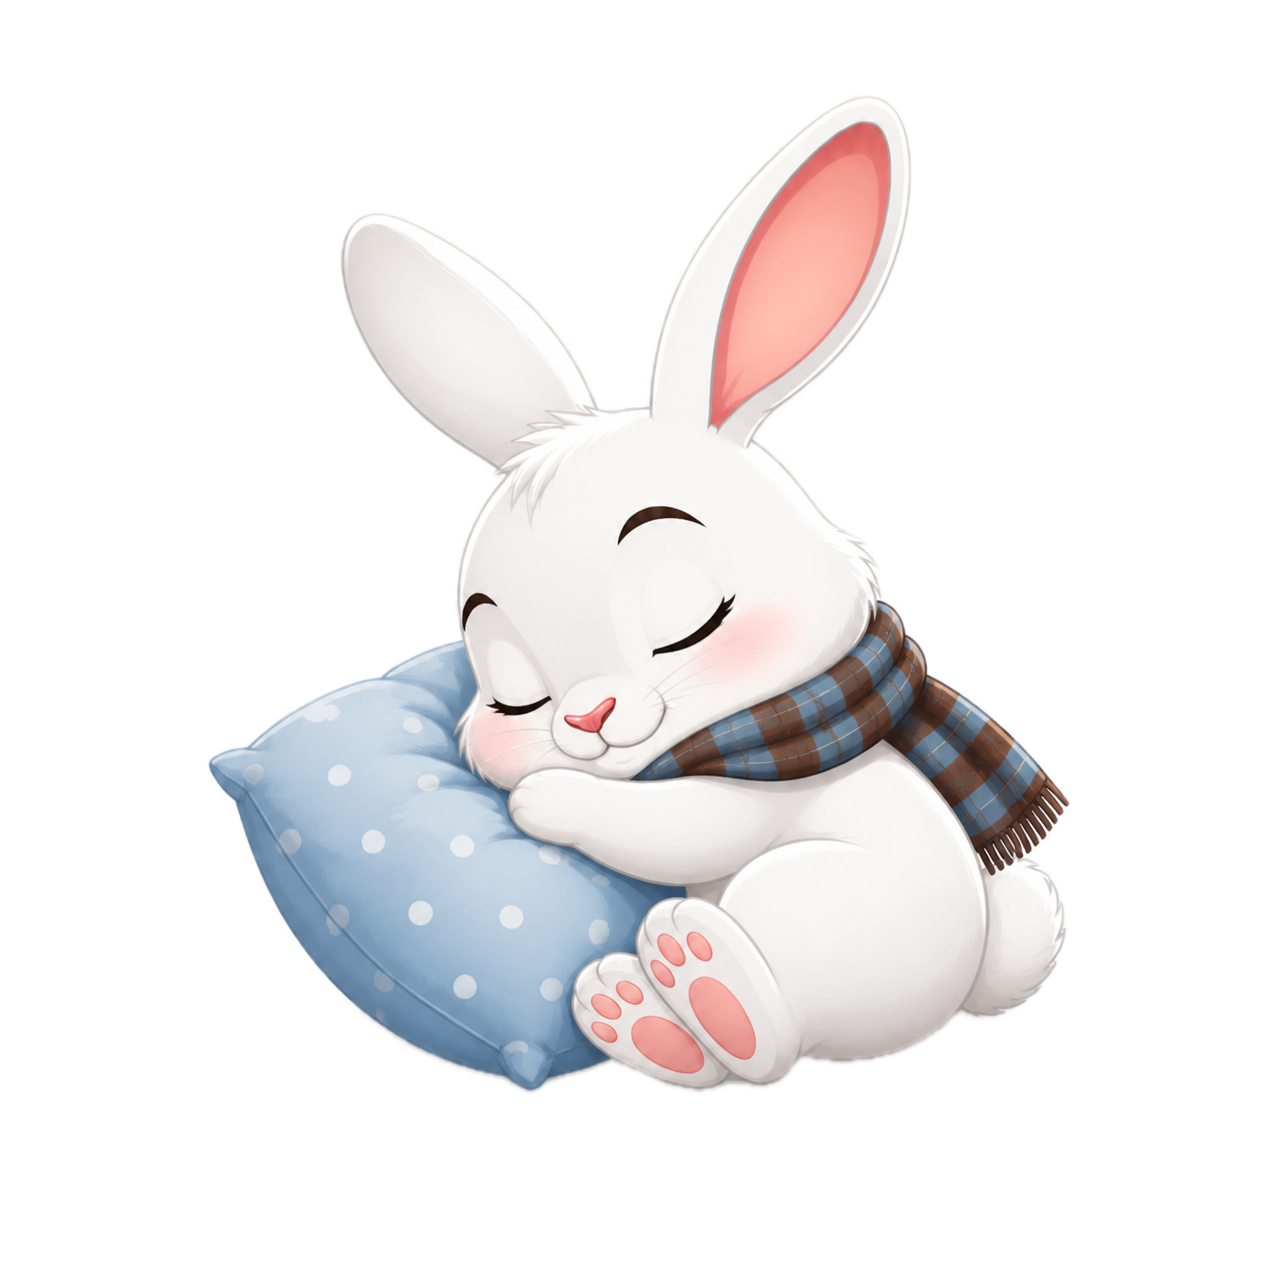
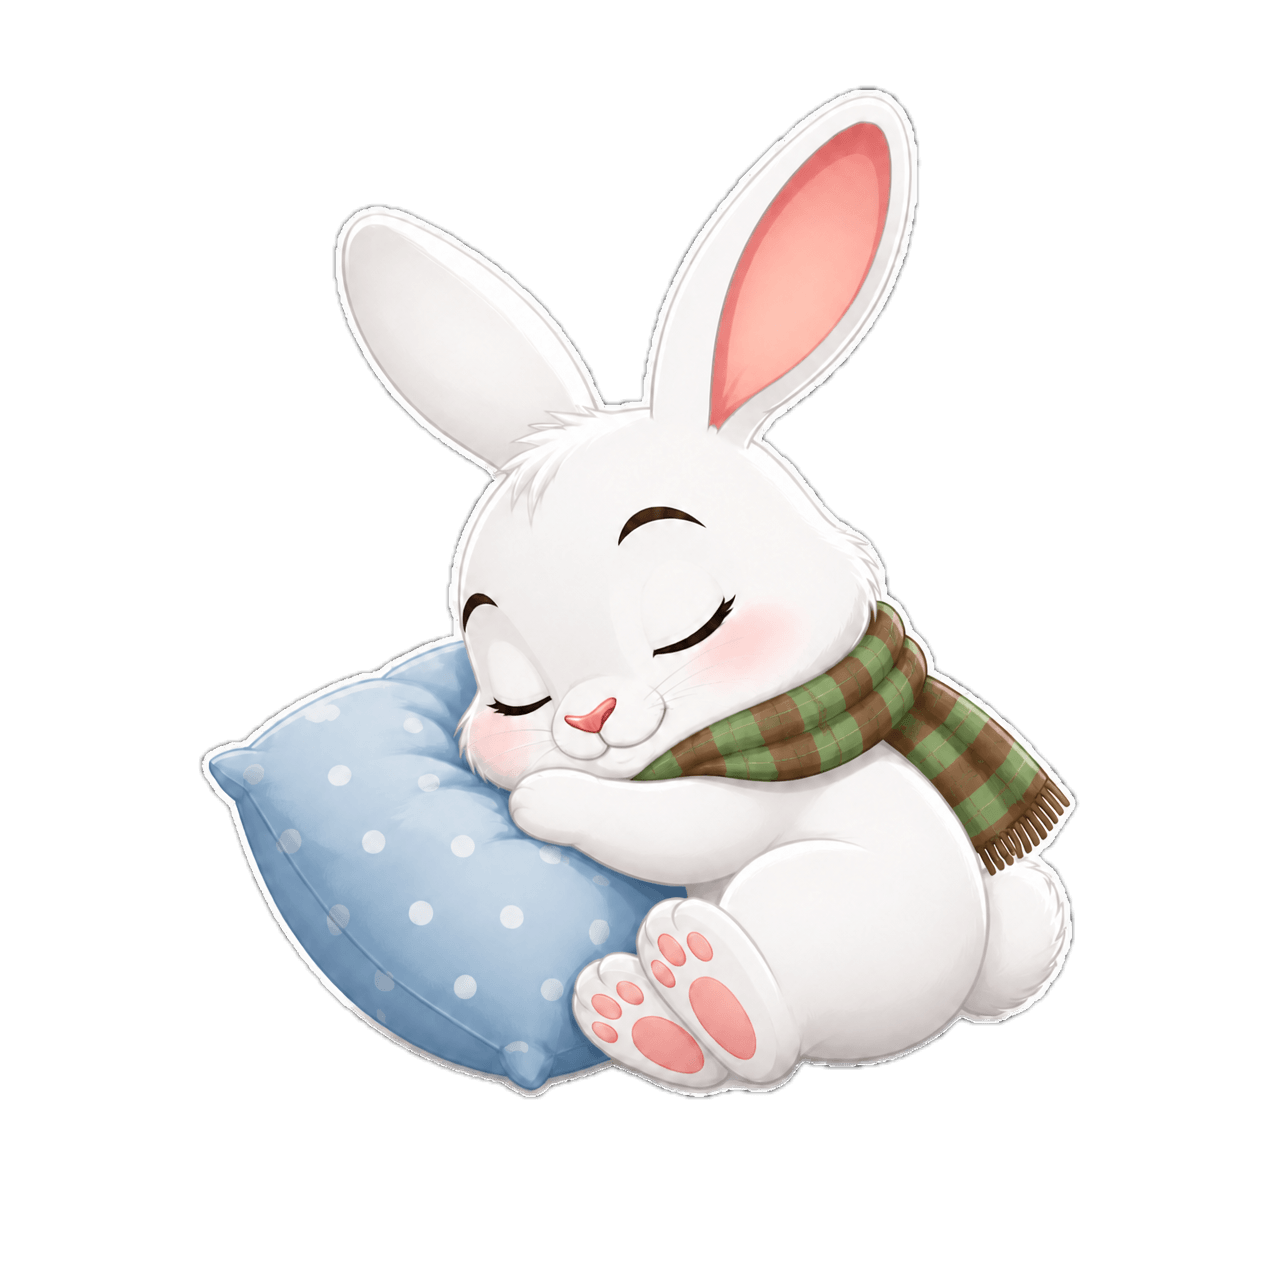
fiz alteraçoes no mascote

diff --git a/src/app/(tabs)/add.tsx b/src/app/(tabs)/add.tsx
@@ -20,6 +20,7 @@ import { colors, spinePalette } from "../../constants/theme";
 import { useBooks } from "../../context/BooksContext";
 import { searchBooks, SearchResult } from "../../services/booksApi";
 import { Status } from "../../types";
+import Mascot from "../../components/Mascot";
 
 const STATUS_OPTIONS: { key: Status; label: string }[] = [
   { key: "quero_ler", label: "Quero ler" },
@@ -27,7 +28,7 @@ const STATUS_OPTIONS: { key: Status; label: string }[] = [
   { key: "lido", label: "Lido" },
 ];
 
-const DEFAULT_PAGES = 250;
+const DEFAULT_PAGES = 250; // estimativa quando a API não informa
 
 type Draft = {
   title: string;
@@ -69,6 +70,10 @@ export default function Add() {
     }
   }
 
+  function randomColor() {
+    return spinePalette[Math.floor(Math.random() * spinePalette.length)];
+  }
+
   function pick(r: SearchResult) {
     setDraft({
       title: r.title,
@@ -77,7 +82,7 @@ export default function Add() {
       pagesKnown: r.pageCount > 0,
       coverUrl: r.coverUrl,
     });
-    setColor(spinePalette[0]);
+    setColor(randomColor());
     setStatus("quero_ler");
   }
 
@@ -88,7 +93,7 @@ export default function Add() {
       pages: DEFAULT_PAGES,
       pagesKnown: false,
     });
-    setColor(spinePalette[0]);
+    setColor(randomColor());
     setStatus("quero_ler");
   }
 
@@ -106,13 +111,6 @@ export default function Add() {
       return Alert.alert("Falta o título", "Digite o título do livro.");
 
     const pageCount = draft.pages;
-    if (isNaN(pageCount) || pageCount <= 0) {
-      return Alert.alert(
-        "Falta o número de páginas",
-        "Ele define a espessura da lombada.",
-      );
-    }
-
     const now = new Date().toISOString();
     addBook({
       title: draft.title.trim(),
@@ -294,17 +292,19 @@ export default function Add() {
             </Pressable>
           )}
           ListEmptyComponent={
-            searched ? (
+            <View style={styles.emptyBox}>
+              <Mascot
+                pose={!searched ? "acenando" : error ? "confuso" : "procurando"}
+                size={130}
+              />
               <Text style={styles.empty}>
-                {error
-                  ? "Não consegui buscar agora. Verifique a internet ou preencha à mão."
-                  : "Nenhum livro encontrado."}
+                {!searched
+                  ? "Digite o nome de um livro e toque na lupa."
+                  : error
+                    ? "Não consegui buscar agora. Verifique a internet ou preencha à mão."
+                    : "Nenhum livro encontrado. Tente outro título ou preencha à mão."}
               </Text>
-            ) : (
-              <Text style={styles.empty}>
-                Digite o nome de um livro e toque na lupa.
-              </Text>
-            )
+            </View>
           }
           ListFooterComponent={
             <Pressable onPress={startManual} style={styles.manual}>
@@ -338,11 +338,11 @@ const styles = StyleSheet.create({
     justifyContent: "center",
   },
   list: { paddingHorizontal: 16, paddingBottom: 32 },
+  emptyBox: { alignItems: "center", marginTop: 16, marginBottom: 8 },
   empty: {
     textAlign: "center",
     color: colors.muted,
-    marginTop: 32,
-    marginBottom: 16,
+    marginTop: 8,
     paddingHorizontal: 24,
   },
   result: {
@@ -382,6 +382,7 @@ const styles = StyleSheet.create({
     marginTop: 16,
     marginBottom: 6,
   },
+  pagesInfo: { fontSize: 13, color: colors.muted, marginTop: 16 },
   input: {
     backgroundColor: colors.paper,
     borderRadius: 10,
@@ -415,6 +416,5 @@ const styles = StyleSheet.create({
     alignItems: "center",
     marginTop: 32,
   },
-  pagesInfo: { fontSize: 13, color: colors.muted, marginTop: 16 },
   saveText: { color: "#fff", fontWeight: "700", fontSize: 16 },
 });

diff --git a/src/components/Mascot.tsx b/src/components/Mascot.tsx
@@ -4,7 +4,6 @@ import {
   Easing,
   Image,
   StyleProp,
-  Text,
   View,
   ViewStyle,
 } from "react-native";
@@ -13,15 +12,23 @@ import { colors, serif } from "../constants/theme";
 const POSES = {
   lendo: require("../../assets/images/coelho.png"),
   dormindo: require("../../assets/images/coelho-dormindo.png"),
+  feliz: require("../../assets/images/coelho-feliz.png"),
+  procurando: require("../../assets/images/coelho-procurando.png"),
+  confuso: require("../../assets/images/coelho-confuso.png"),
+  estrela: require("../../assets/images/coelho-estrela.png"),
+  acenando: require("../../assets/images/coelho-acenando.png"),
 };
 
+export type Pose = keyof typeof POSES;
+
 type Props = {
-  pose?: keyof typeof POSES;
+  pose?: Pose;
   size?: number;
+  animated?: boolean; // flutuação suave, ligada por padrão
   style?: StyleProp<ViewStyle>;
 };
 
-// "Zzz" que sobe e some, em loop
+// "Zzz" que sobe e some, em loop (só na pose dormindo)
 function Zzz({ size }: { size: number }) {
   const t = useRef(new Animated.Value(0)).current;
 
@@ -66,14 +73,56 @@ function Zzz({ size }: { size: number }) {
   );
 }
 
-export default function Mascot({ pose = "lendo", size = 160, style }: Props) {
+export default function Mascot({
+  pose = "lendo",
+  size = 160,
+  animated = true,
+  style,
+}: Props) {
+  const float = useRef(new Animated.Value(0)).current;
+
+  useEffect(() => {
+    if (!animated) return;
+    const loop = Animated.loop(
+      Animated.sequence([
+        Animated.timing(float, {
+          toValue: 1,
+          duration: 1900,
+          easing: Easing.inOut(Easing.sin),
+          useNativeDriver: true,
+        }),
+        Animated.timing(float, {
+          toValue: 0,
+          duration: 1900,
+          easing: Easing.inOut(Easing.sin),
+          useNativeDriver: true,
+        }),
+      ]),
+    );
+    loop.start();
+    return () => loop.stop();
+  }, [animated, float]);
+
   return (
     <View style={[{ width: size, height: size }, style]}>
-      <Image
-        source={POSES[pose]}
-        style={{ width: size, height: size }}
-        resizeMode="contain"
-      />
+      <Animated.View
+        style={{
+          transform: [
+            {
+              translateY: float.interpolate({
+                inputRange: [0, 1],
+                outputRange: [0, -size * 0.025],
+              }),
+            },
+          ],
+        }}
+      >
+        <Image
+          source={POSES[pose]}
+          style={{ width: size, height: size }}
+          resizeMode="contain"
+        />
+      </Animated.View>
       {pose === "dormindo" && <Zzz size={size} />}
     </View>
   );

diff --git a/src/app/(tabs)/stats.tsx b/src/app/(tabs)/stats.tsx
@@ -86,7 +86,7 @@ export default function Stats() {
           </View>
           <View style={styles.stat}>
             <Text style={styles.statNumber}>
-              {avgRating ? avgRating.toFixed(1) : "–"}
+              {avgRating ? formatRating(Number(avgRating.toFixed(2))) : "–"}
             </Text>
             <Text style={styles.statLabel}>nota média</Text>
           </View>
@@ -122,18 +122,25 @@ export default function Stats() {
         {/* destaque do ano */}
         {best ? (
           <View style={styles.highlight}>
-            <Text style={styles.highlightLabel}>Melhor avaliado de {year}</Text>
-            <Text style={styles.highlightTitle}>{best.title}</Text>
-            <View style={styles.stars}>
-              <StarRating value={best.rating ?? 0} size={20} />
-              <Text style={styles.ratingText}>
-                {formatRating(best.rating ?? 0)}
+            <View style={{ flex: 1 }}>
+              <Text style={styles.highlightLabel}>
+                Melhor avaliado de {year}
               </Text>
+              <Text style={styles.highlightTitle} numberOfLines={3}>
+                {best.title}
+              </Text>
+              <View style={styles.stars}>
+                <StarRating value={best.rating ?? 0} size={20} />
+                <Text style={styles.ratingText}>
+                  {formatRating(best.rating ?? 0)}
+                </Text>
+              </View>
             </View>
+            <Mascot pose="estrela" size={90} />
           </View>
         ) : readInYear.length === 0 ? (
           <View style={styles.emptyBox}>
-            <Mascot size={120} style={{ opacity: 0.8 }} />
+            <Mascot pose="dormindo" size={130} />
             <Text style={styles.emptyText}>
               {year === currentYear
                 ? "Nenhum livro terminado ainda neste ano. O coelho está esperando!"
@@ -205,6 +212,9 @@ const styles = StyleSheet.create({
   barLabel: { fontSize: 12, color: colors.muted, marginTop: 6 },
 
   highlight: {
+    flexDirection: "row",
+    alignItems: "center",
+    gap: 8,
     backgroundColor: colors.paper,
     borderRadius: 14,
     padding: 16,
@@ -219,7 +229,7 @@ const styles = StyleSheet.create({
   },
   stars: { flexDirection: "row", alignItems: "center", gap: 8, marginTop: 8 },
   ratingText: { fontSize: 14, color: colors.muted },
-  
+
   emptyBox: { alignItems: "center", marginTop: 24 },
   emptyText: {
     color: colors.muted,

diff --git a/src/components/CelebrationModal.tsx b/src/components/CelebrationModal.tsx
@@ -56,7 +56,7 @@ export default function CelebrationModal({
     >
       <View style={styles.overlay}>
         <Animated.View style={[styles.card, { transform: [{ scale }] }]}>
-          <Mascot size={150} />
+          <Mascot pose="feliz" size={150} />
           <Text style={styles.phrase}>{phrase}</Text>
           <Text style={styles.title} numberOfLines={2}>
             {title}
@@ -79,7 +79,7 @@ export default function CelebrationModal({
 const styles = StyleSheet.create({
   overlay: {
     flex: 1,
-    backgroundColor: "rgba(59,42,32,0.55)",
+    backgroundColor: "rgba(31,58,50,0.55)",
     alignItems: "center",
     justifyContent: "center",
     padding: 24,
